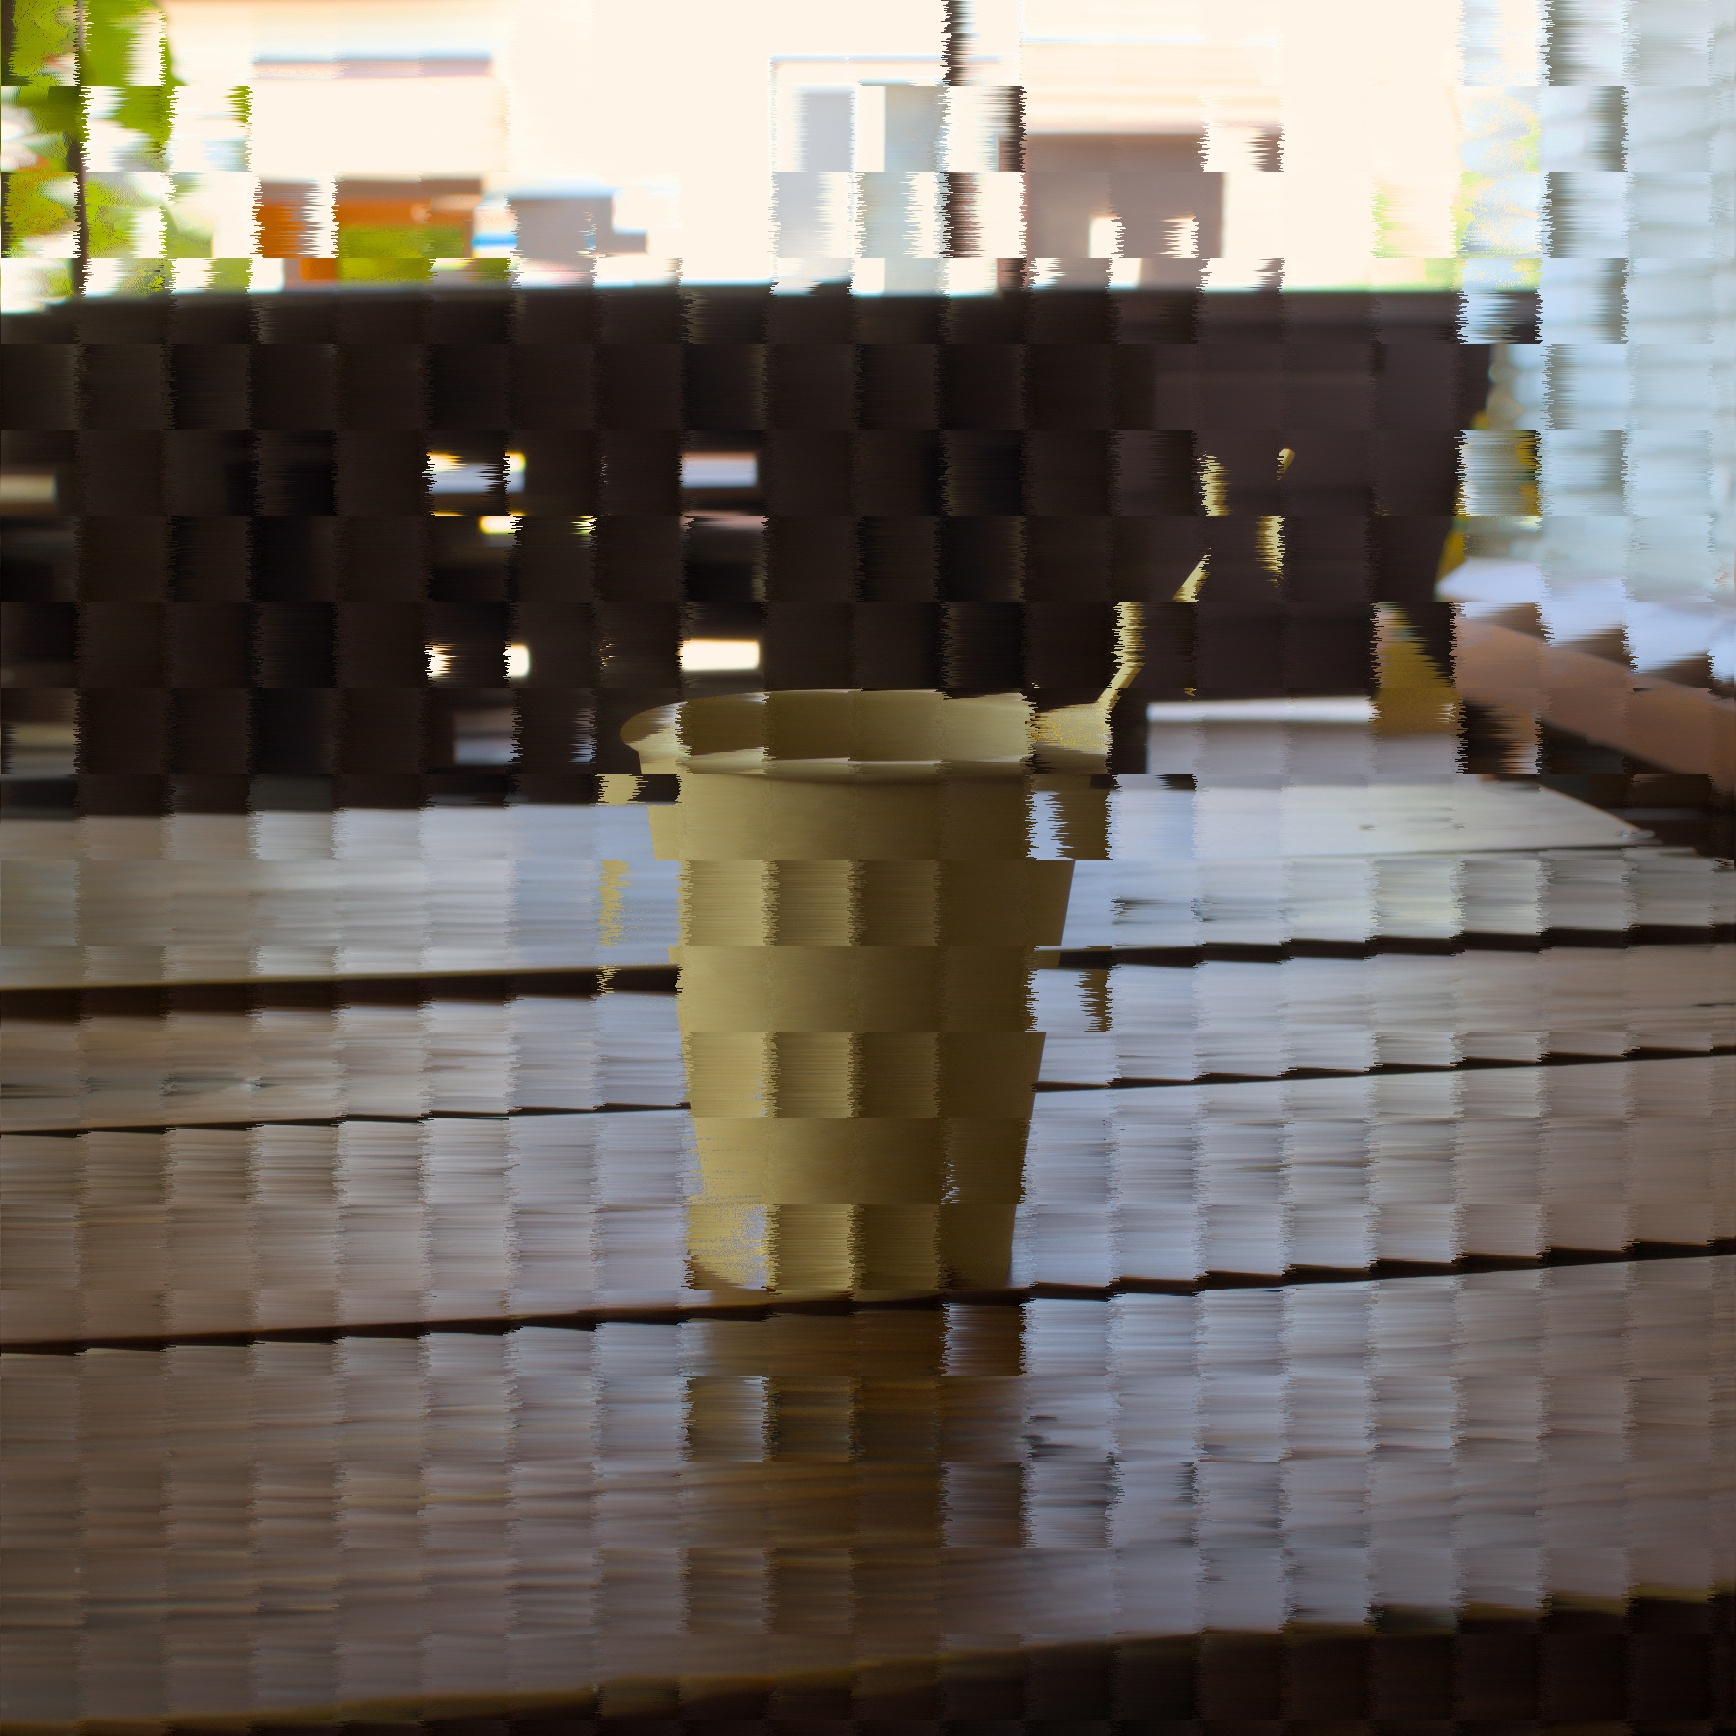
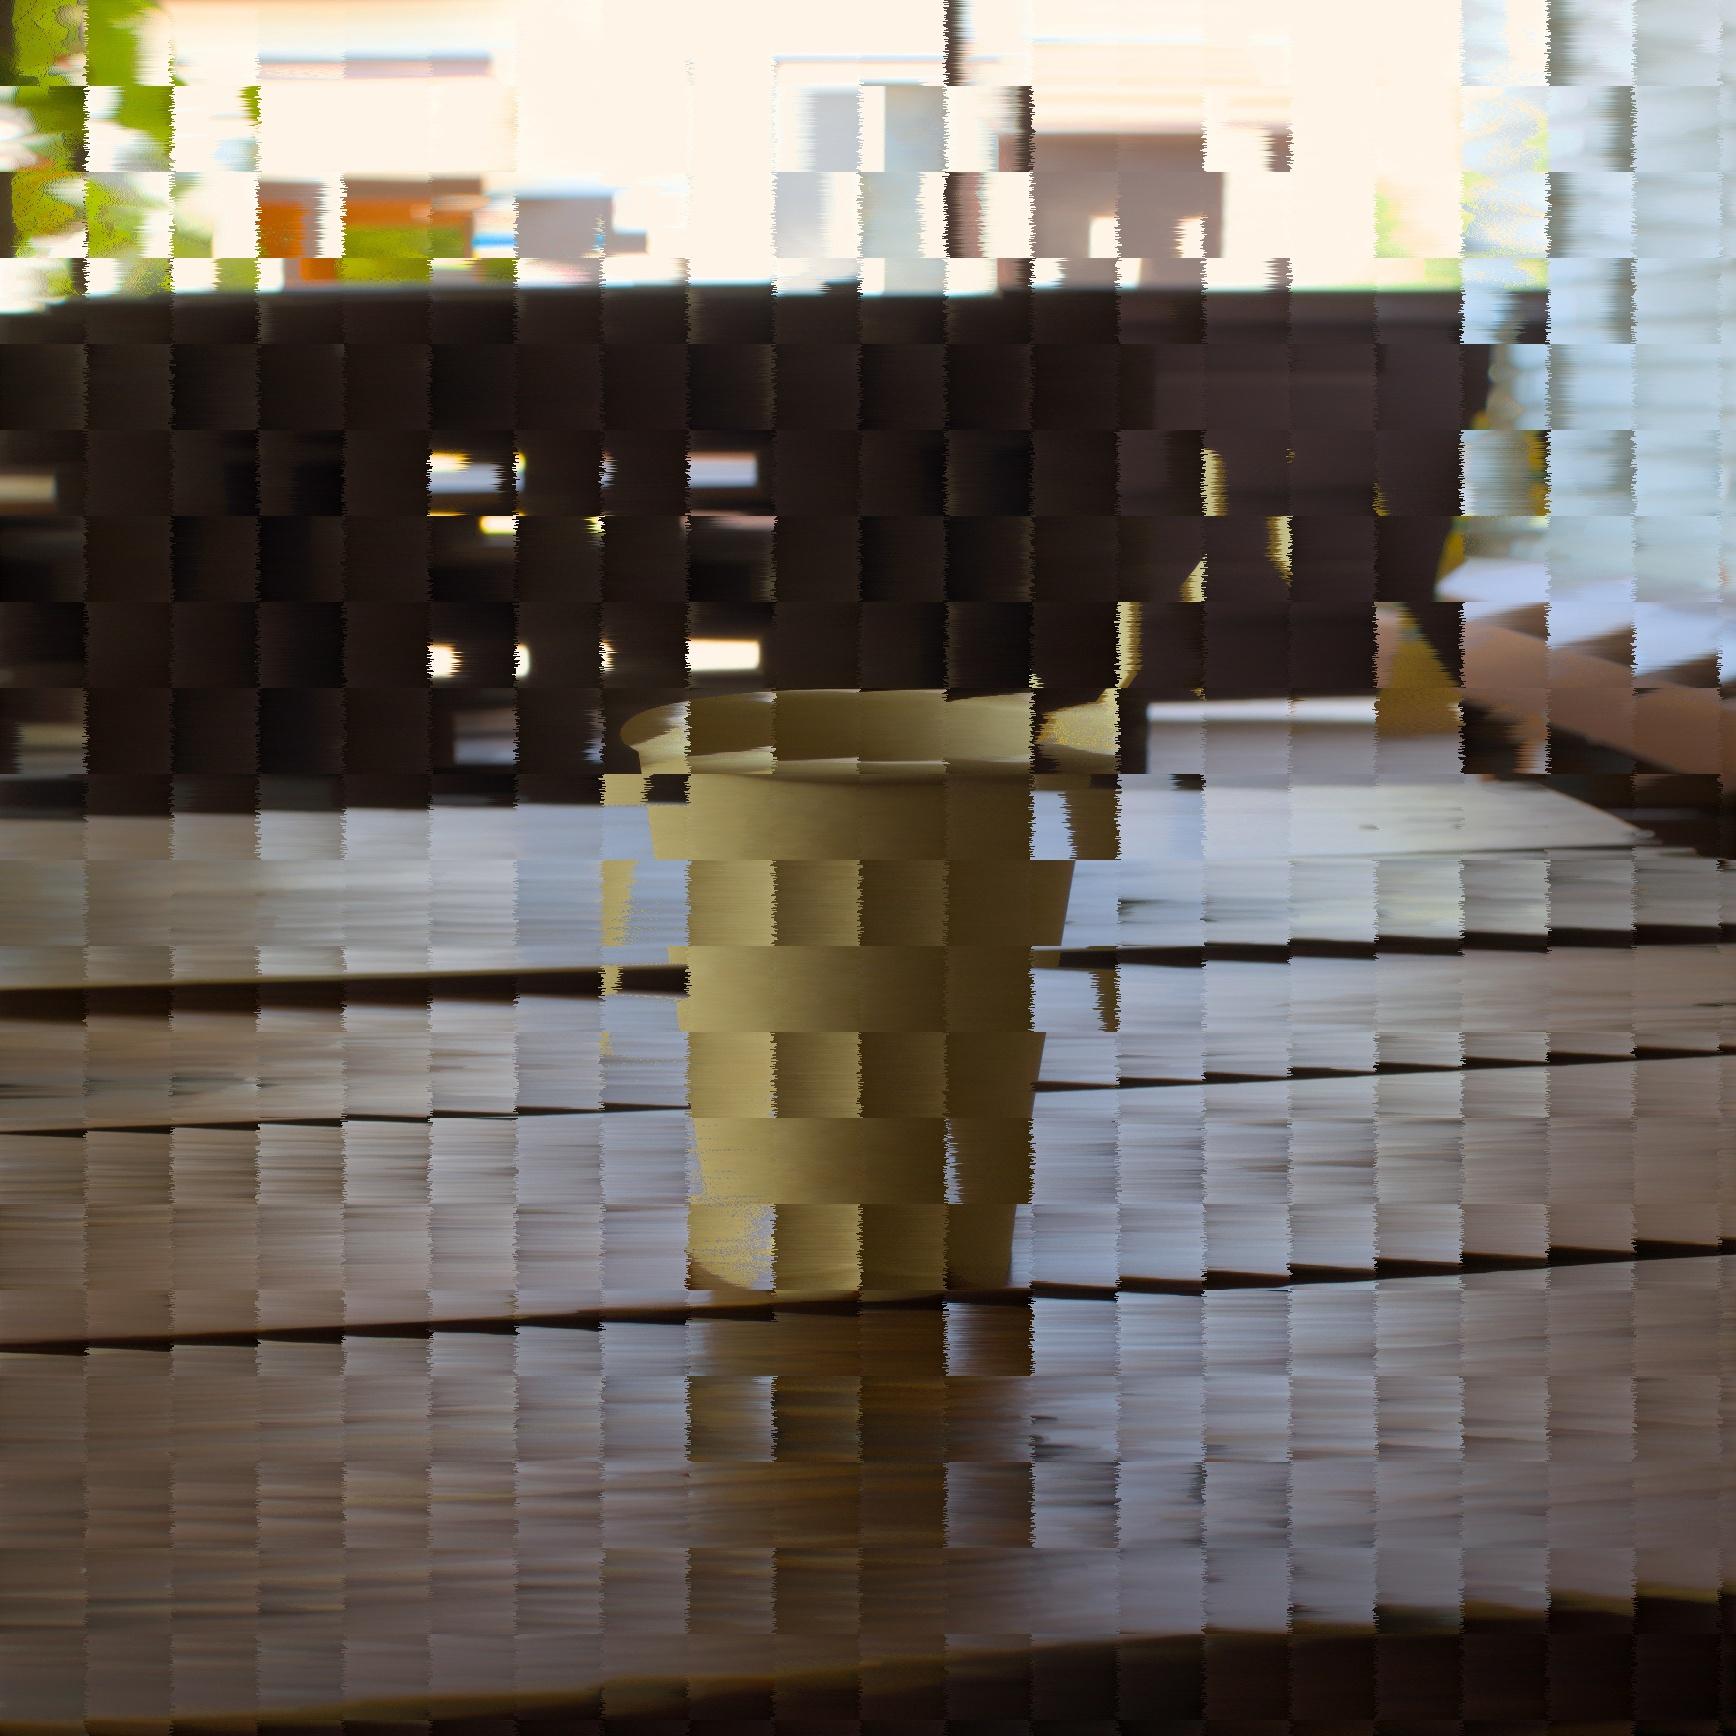
Fix blocky segmentation

diff --git a/main.py b/main.py
@@ -323,8 +323,8 @@ class PixelSort:
         sin_alpha = math.sin(math.radians(angle%90))
         sin_beta = math.sin(math.radians(90-(angle%90)))
 
-        x1 = int(self.img_size[(angle//90)%2]*sin_beta)
-        y1 = int(self.img_size[(angle//90)%2]*sin_alpha)
+        x1 = round(self.img_size[(angle//90)%2]*sin_beta)
+        y1 = round(self.img_size[(angle//90)%2]*sin_alpha)
         x2 = rimg_size[0]-x1
         y2 = rimg_size[1]-y1
 
@@ -338,8 +338,8 @@ class PixelSort:
             full_row = self.image_data[yoffset:yoffset+rimg_size[0]]
 
             if angle % 90 != 0:
-                start_x = max(x1-int((y/sin_alpha)*sin_beta), x2-int(((rimg_size[1]-y)/sin_beta)*sin_alpha))
-                end_x = min(x1+int((y/sin_beta)*sin_alpha), x2+int(((rimg_size[1]-y)/sin_alpha)*sin_beta))
+                start_x = max(x1-round((y/sin_alpha)*sin_beta), x2-round(((rimg_size[1]-y)/sin_beta)*sin_alpha))
+                end_x = min(x1+round((y/sin_beta)*sin_alpha), x2+round(((rimg_size[1]-y)/sin_alpha)*sin_beta))
 
             row = full_row[start_x:end_x]
 
@@ -372,17 +372,17 @@ class PixelSort:
 
             if segmentation == "blocky":
                 block_size = int(size*self.img_size[0])
+                offset = 0
 
-                segment_size = int(block_size*(1-(randomness*(random.random()+0.5))))
+                for x in range(0, rimg_size[0], block_size):
+                    last_offset = offset
+                    offset = int(block_size*randomness*(random.random() - 0.5))
 
-                for x in range(segment_size, rimg_size[0]+block_size, block_size):
-                    start = max(x-segment_size, start_x+1)
-                    end = min(x, end_x-2)
+                    start = max(x+last_offset, start_x)
+                    end = min(x+block_size+offset, end_x)
                     full_row[start:end] = sorted(full_row[start:end],
                                                  key=skey,
                                                  reverse=(y//block_size)%2 != self.reverse)
-
-                    segment_size = int(block_size*(1-(randomness*(random.random()+0.5))))
 
             if segmentation in ("none", "edge", "melting"):
                 self.image_data[yoffset+start_x:yoffset+end_x] = row
